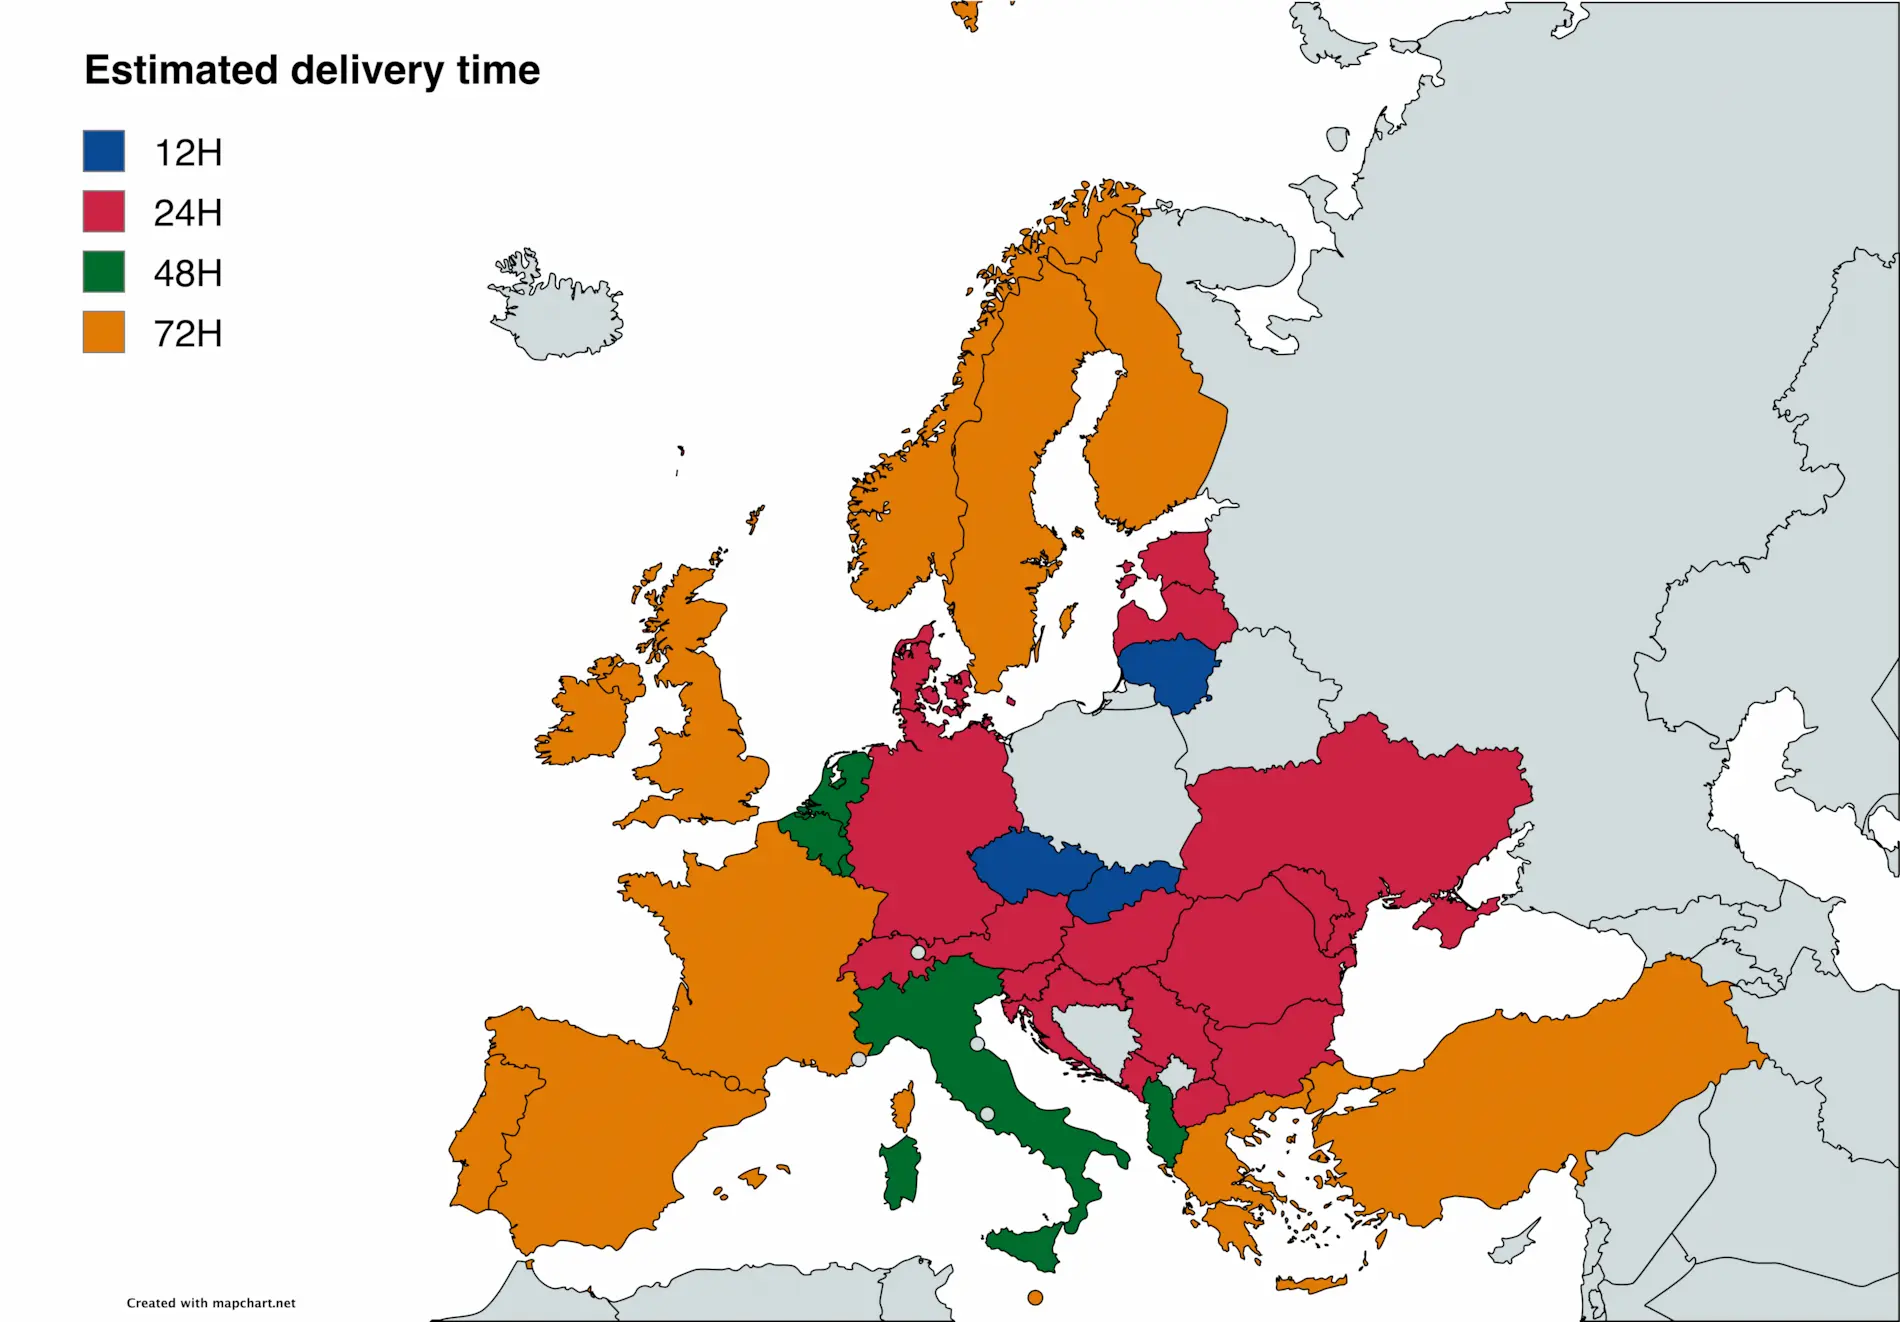
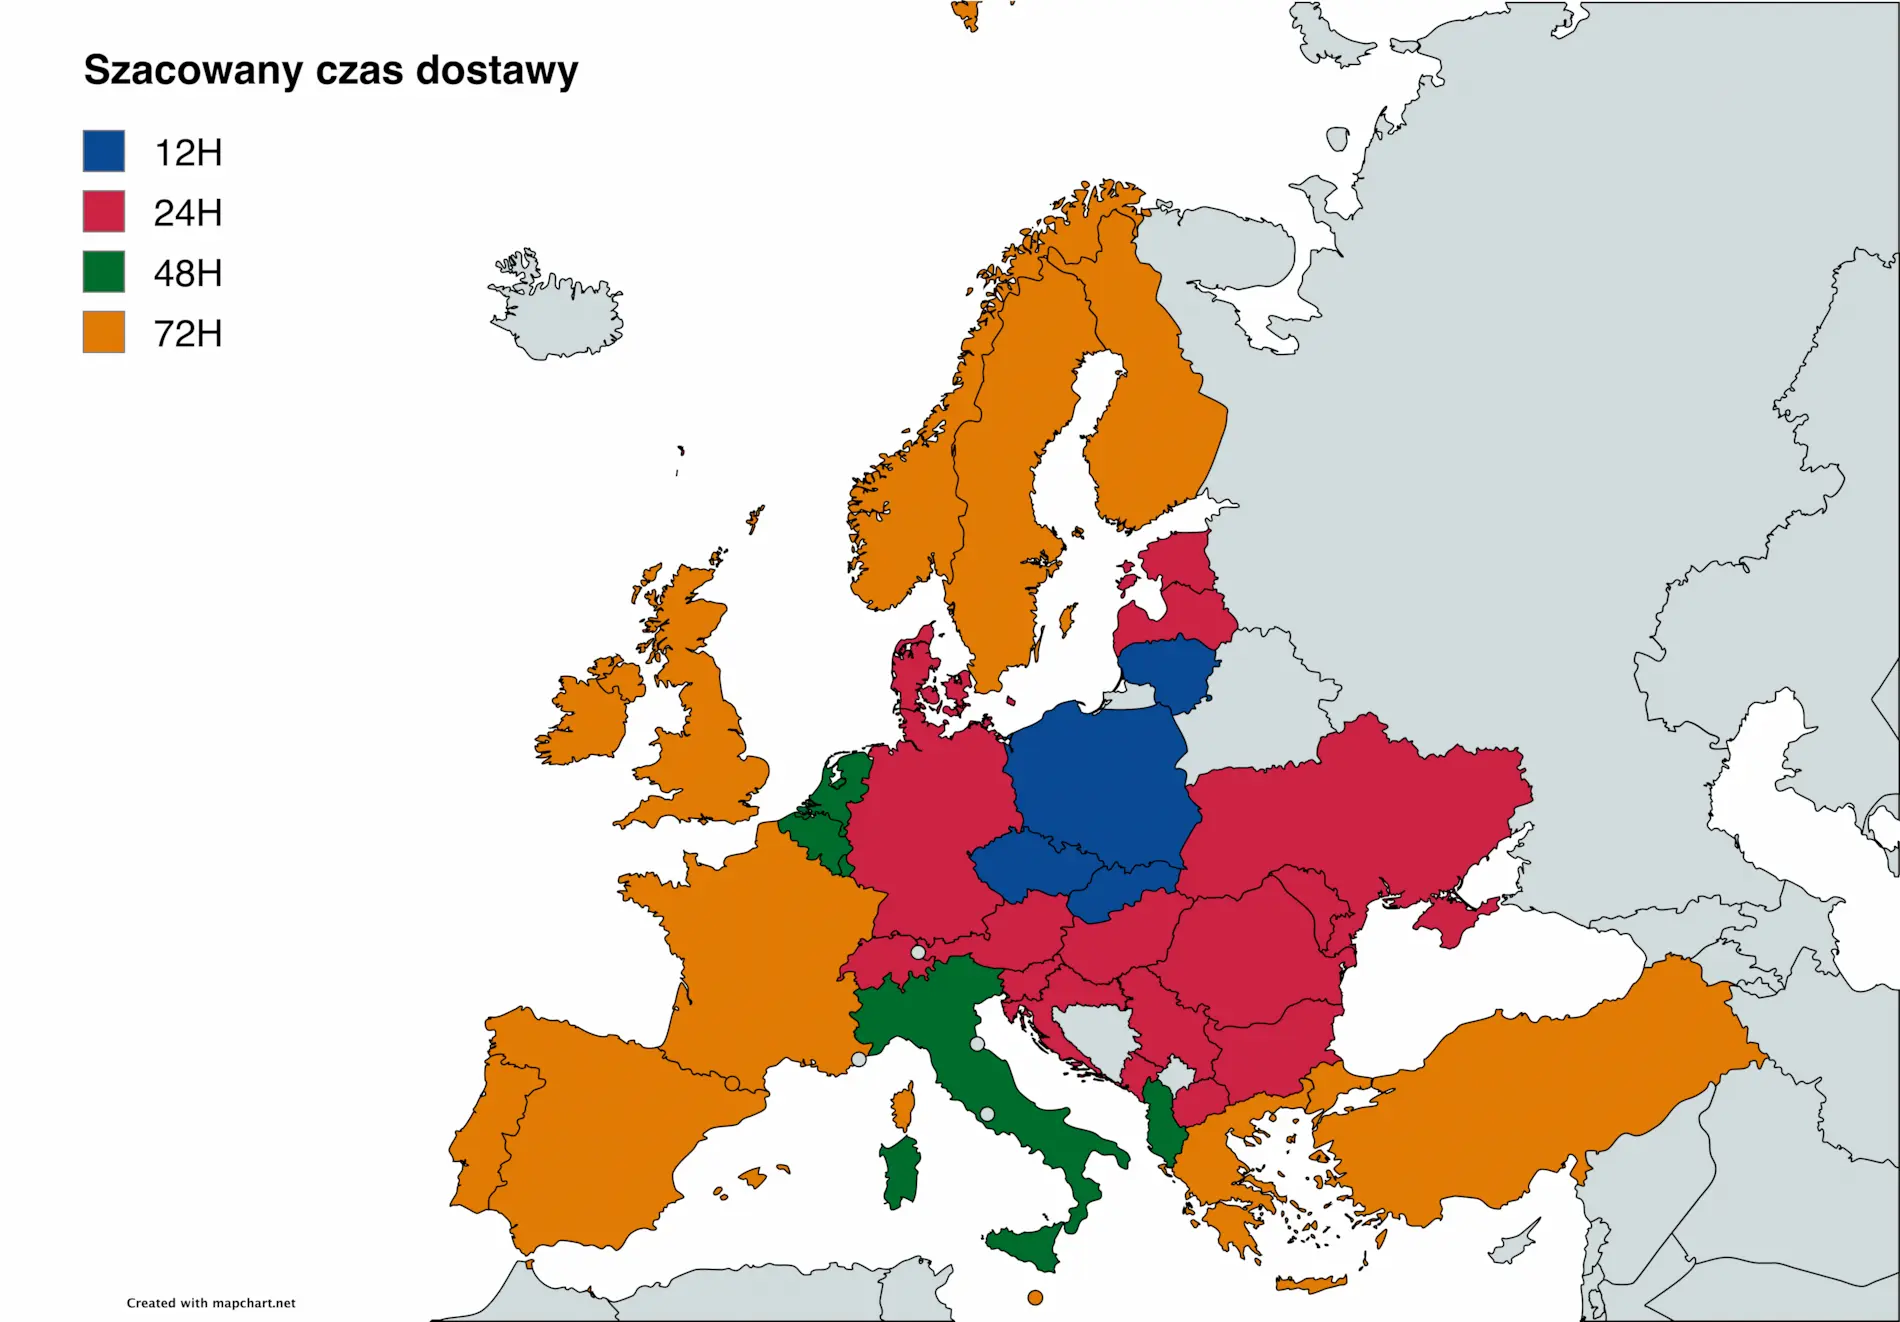
update images and SEO

Changed region(s): [[0.5279, 0.5272, 0.6521, 0.6823], [0.0311, 0.031, 0.3105, 0.062]]

diff --git a/src/seo/jsonLd.ts b/src/seo/jsonLd.ts
@@ -1,4 +1,4 @@
-import siteData from "../seo/siteData.json";
+import { siteDataByLang, type Locale } from "./siteData";
 
 export function slugify(text: string) {
   return text
@@ -15,11 +15,16 @@ export default function jsonLDGenerator({
   type = "website",
   post,
   url,
+  image,
+  lang = "en",
 }: {
   type: string;
   post?: any;
   url?: string;
+  image?: string;
+  lang?: Locale;
 }) {
+  const s = siteDataByLang[lang] || siteDataByLang.en;
   if (type === "post") {
     return `<script type="application/ld+json">
       {
@@ -31,10 +36,7 @@ export default function jsonLDGenerator({
         },
         "headline": "${post.title}",
         "description": "${post.description}",
-        "image": "${
-          post.image?.src ||
-          "https://sub-logistic.netlify.app/social-media-card.webp"
-        }",
+        "image": "${post.image?.src || image}",
         "author": {
           "@type": "Person",
           "name": "${post.author}",
@@ -49,28 +51,28 @@ export default function jsonLDGenerator({
       {
       "@context": "https://schema.org/",
       "@type": "WebSite",
-      "name": "${siteData.title}",
-        "url": "${siteData.url}",
-        "logo": "${siteData.url}/.netlify/images?url=_astro%2Fsub-logistics-logo.DeiqvkTr.webp&fm=webp&w=261&h=152",
-        "image": "${siteData.url}/social-media-card.png",
-        "description": "${siteData.description}",  
+      "name": "${s.title}",
+        "url": "${s.url}",
+        "logo": "${s.url}/.netlify/images?url=_astro%2Fsub-logistics-logo.DeiqvkTr.webp&fm=webp&w=261&h=152",
+        "image": "${image}",
+        "description": "${s.description}",  
         "address": {
           "@type": "PostalAddress",
-          "addressLocality": "${siteData.streetAddress}",
-          "addressRegion": "Pomorskie",
-          "addressCountry": "Polska",
-          "postalCode": "${siteData.postalCode}",
+          "addressLocality": "${s.streetAddress}",
+          "addressRegion": "${s.region}",
+          "addressCountry": "${s.country}",
+          "postalCode": "${s.postalCode}",
           "addressCountryCode": "PL",
-          "city": "${siteData.city}",
-          "region": "${siteData.region}",
-          "streetAddress": "${siteData.streetAddress}"
+          "city": "${s.city}",
+          "region": "${s.region}",
+          "streetAddress": "${s.streetAddress}"
         },
         "contactPoint": {
           "@type": "ContactPoint",
-          "telephone": "${siteData.telephone}",
+          "telephone": "${s.telephone}",
           "contactType": "customer support",
           "areaServed": "PL",
-          "availableLanguage": "en-GB, pl-PL",
+          "availableLanguage": "en-GB, pl-PL, de-DE",
         }
       }
     </script>`;

diff --git a/src/seo/siteData.ts b/src/seo/siteData.ts
@@ -1,0 +1,58 @@
+export type Locale = "pl" | "en" | "de";
+
+export type SiteData = {
+  title: string;
+  description: string;
+  url: string;
+  image: { alt: string };
+  telephone: string;
+  streetAddress: string;
+  city: string;
+  region: string;
+  postalCode: string;
+  country: string;
+};
+
+export const siteDataByLang: Record<Locale, SiteData> = {
+  pl: {
+    title: "Sub Logistic - Twój Partner w Efektywnym Transporcie i Logistyce",
+    description:
+      "Sub Logistic provides efficient logistics and transport solutions tailored to your needs. Discover our services and contact us for more details.",
+    url: "https://sub-logistic.netlify.app/",
+    image: {
+      alt: "Sub Logistic - Twój Partner w Efektywnym Transporcie i Logistyce",
+    },
+    telephone: "",
+    streetAddress: "ul. Marynarki",
+    city: "Gdansk",
+    region: "Pomorskie",
+    postalCode: "",
+    country: "Polska",
+  },
+  en: {
+    title: "Sub Logistic - Your Partner in Efficient Transport & Logistics",
+    description:
+      "Sub Logistic provides efficient logistics and transport solutions tailored to your needs. Discover our services and contact us for more details.",
+    url: "https://sub-logistic.netlify.app/",
+    image: { alt: "Sub Logistic - Your Partner in Efficient Transport & Logistics" },
+    telephone: "",
+    streetAddress: "Marynarki Street",
+    city: "Gdansk",
+    region: "Pomeranian",
+    postalCode: "",
+    country: "Poland",
+  },
+  de: {
+    title: "Sub Logistic – Ihr Partner für effizienten Transport und Logistik",
+    description:
+      "Sub Logistic bietet effiziente Logistik- und Transportlösungen, die auf Ihre Bedürfnisse zugeschnitten sind. Entdecken Sie unsere Leistungen und kontaktieren Sie uns für weitere Details.",
+    url: "https://sub-logistic.netlify.app/",
+    image: { alt: "Sub Logistic – Ihr Partner für effizienten Transport und Logistik" },
+    telephone: "",
+    streetAddress: "Marynarki Straße",
+    city: "Danzig",
+    region: "Pommern",
+    postalCode: "",
+    country: "Polen",
+  },
+};
